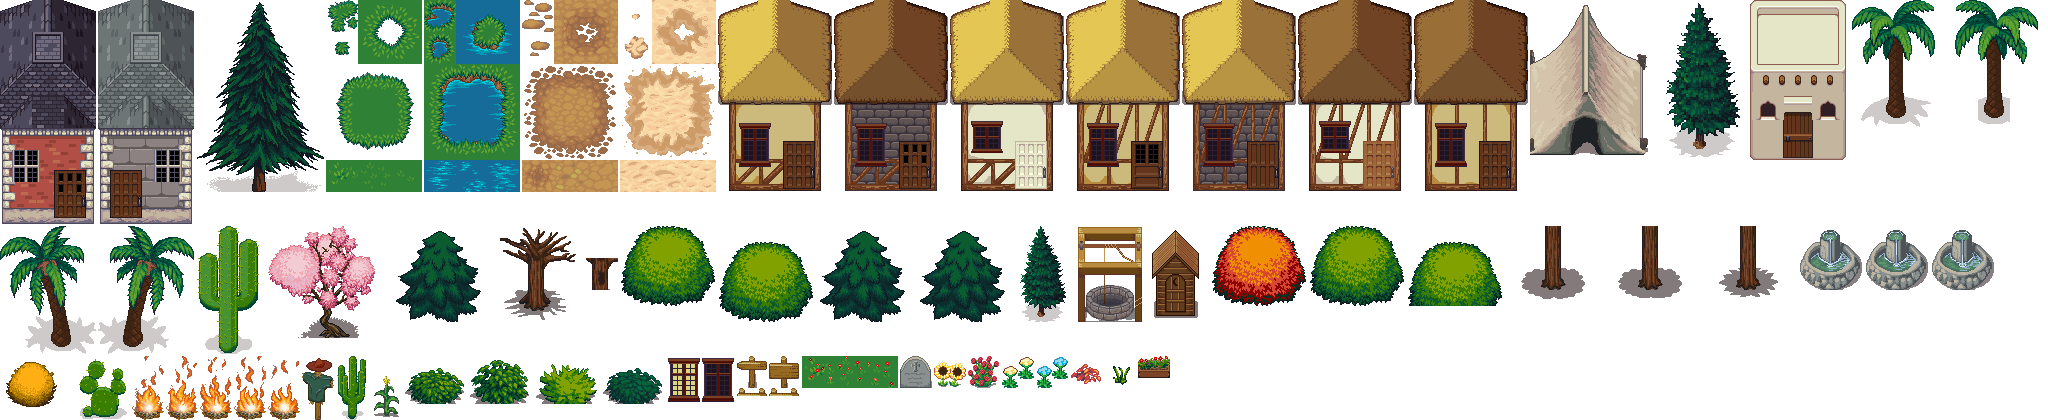
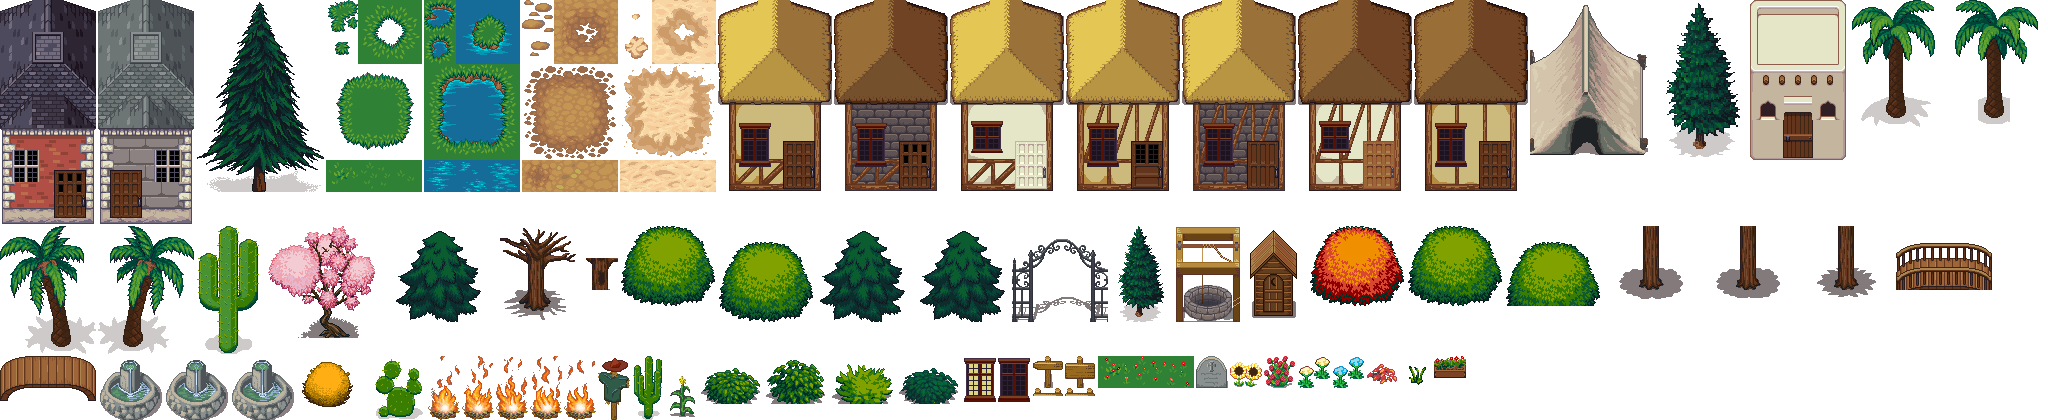
Vila em LPC: ponte de madeira, portão de ferro na Terra Nova e escola de pedra

Changed region(s): [[0.0, 0.8357, 0.7188, 1.0], [0.4688, 0.5262, 0.8125, 0.7738], [0.8438, 0.5262, 1.0, 0.7119]]

diff --git a/src/mapa/cena.js b/src/mapa/cena.js
@@ -4,7 +4,7 @@ import Phaser from 'phaser';
 import * as planta from './vila.js';
 import { montarTerreno, caminho, livreMaisPerto, conferirSequencia, semente2 } from './grade.js';
 import { todasAsTexturas, iconesBarra } from './texturas.js';
-import { FOLHAS, ANIMADOS, PESSOAS, ROSTOS, RECORTES, DIRECOES, LINHAS, AGUA, LPC_PECAS, LPC_ENFEITES, LPC_OBJETOS } from './arte.js';
+import { FOLHAS, ANIMADOS, PESSOAS, ROSTOS, RECORTES, DIRECOES, LINHAS, LPC_PECAS, LPC_ENFEITES, LPC_OBJETOS } from './arte.js';
 import { desenharChao, desenharEstrada, pecasDaEstrada } from './chao.js';
 import { MORADORES } from './moradores.js';
 import { folha } from '../avatar.js';
@@ -106,7 +106,7 @@ class MapaCena extends Phaser.Scene {
     this.textures.addCanvas('chaoLPC', chao.canvas);
     this.add.image(0, 0, 'chaoLPC').setOrigin(0).setScale(Q_ESCALA).setDepth(0);
     const pt = planta.PONTE;
-    for (let x = pt.x0; x <= pt.x1; x++) this.add.image(x * P + P / 2, pt.y * P + P / 2, 'agua', AGUA.ponte).setDepth(1);
+    this.add.image((planta.RIO.x + planta.RIO.w / 2) * P, pt.y * P + P / 2, 'lpc', 'ponte-arco').setScale(Q_ESCALA).setDepth(1);
 
     this.interativos = [];
     this.anima();
@@ -297,7 +297,7 @@ class MapaCena extends Phaser.Scene {
     const fx = (id) => this.fases[id];
     const arv = fx('m1f6'); const ba = arv.img.getBounds(); this.add.image(ba.centerX, ba.top + 4, 'organograma').setOrigin(0.5, 0).setDepth(arv.img.depth + 1).setScale(0.75);
     const torre = fx('m1f7'); const bt = torre.img.getBounds(); const pl = this.add.image(bt.right - 8, bt.bottom + 3, 'placaLupa').setOrigin(0.5, 1); pl.setDepth(100 + pl.y);
-    const portal = fx('m1f4'); this.add.sprite(portal.img.x + 24, portal.img.y - 2, 'bandeiraAmarela').setOrigin(0.5, 1).setDepth(portal.img.depth + 1).play('bandeiraAmarela');
+    const portal = fx('m1f4'); const bp = portal.img.getBounds(); this.add.sprite(bp.centerX, bp.top - 2, 'bandeiraAmarela').setOrigin(0.5, 1).setDepth(portal.img.depth + 1).play('bandeiraAmarela');
     const camp = fx('m1f5'); const bc = camp.img.getBounds(); const fog = this.add.sprite(bc.left - 6, bc.bottom - 2, 'lpc', 'fogueira-0').setOrigin(0.5, 1).setScale(Q_ESCALA).setDepth(100 + bc.bottom);
     let qf = 0; this.time.addEvent({ delay: 120, loop: true, callback: () => { qf = (qf + 1) % 5; fog.setFrame('fogueira-' + qf); } });
     this.add.image(bc.left - 20, bc.bottom + 2, 'acampamento', 'toras').setDepth(100 + bc.bottom + 2);
@@ -404,7 +404,7 @@ class MapaCena extends Phaser.Scene {
     const imp = this.objetos.impressora.img;
     if (this.textures.exists('gatoL')) { const gato = this.add.sprite(imp.x, imp.y - 7, 'gatoL', 7).setOrigin(0.5, 1).setScale(Q_ESCALA).setDepth(imp.depth + 1); this.tweens.add({ targets: gato, scaleY: Q_ESCALA * 1.06, duration: 1400, yoyo: true, repeat: -1, ease: 'Sine.easeInOut' }); }
     else this.add.sprite(imp.x, imp.y - 9, 'gato').setOrigin(0.5, 1).setDepth(imp.depth + 1).play('gato');
-    const esc = this.objetos.escola.img; this.antena = this.add.image(esc.x + 21, esc.y - esc.height + 6, 'antena-0').setOrigin(0.5, 1).setDepth(esc.depth + 1);
+    const esc = this.objetos.escola.img; const be = esc.getBounds(); this.antena = this.add.image(be.centerX + 8, be.top + 6, 'antena-0').setOrigin(0.5, 1).setDepth(esc.depth + 1);
     const cafe = this.objetos.porta.img;
     this.time.addEvent({ delay: 650, loop: true, callback: () => {
       if (this.cfg.menosMovimento || !this.cameras.main.worldView.contains(cafe.x, cafe.y - 10)) return;

diff --git a/src/mapa/arte.js b/src/mapa/arte.js
@@ -80,6 +80,7 @@ export const LPC_PECAS = {
   lojaVerde: { quadro: 'casa-palha-reta', porta: [81, 189] },
   barraca: { quadro: 'tenda', porta: [60, 158] },
   arvoreGrande: { quadro: 'cerejeira', porta: [64, 112] },
+  portal: { quadro: 'portao-ferro', porta: [48, 94] },
 };
 
 // Enfeites da planta trocados por peças LPC (com mais de uma opção, o sorteio fixo pela posição escolhe).
@@ -89,4 +90,4 @@ export const LPC_ENFEITES = {
   arbusto1: ['arbusto-1'], arbusto2: ['arbusto-2'], arbusto3: ['arbusto-3'], arbusto4: ['arbusto-4'], mato: ['mato'], trigo: ['trigo'],
 };
 // Objetos desenhados para o jogo que já têm versão LPC.
-export const LPC_OBJETOS = { cacto: 'cacto', lapide: 'lapide' };
+export const LPC_OBJETOS = { cacto: 'cacto', lapide: 'lapide', escola: 'casa-pedra' };
